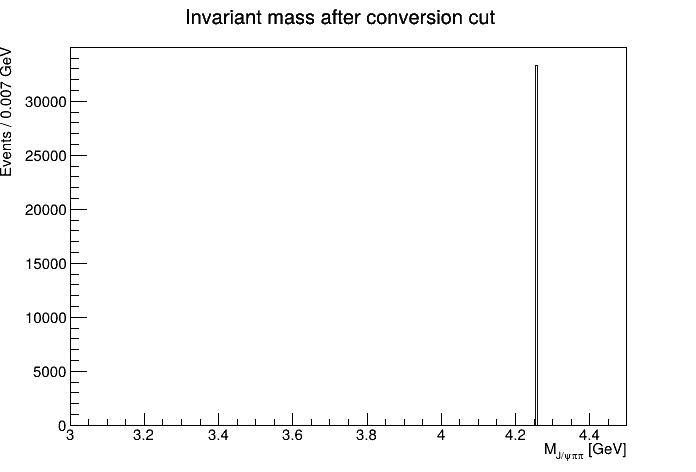
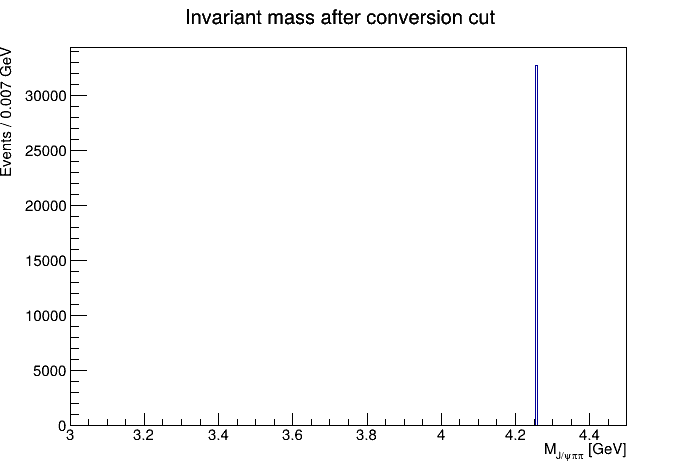
changed bhabha muon condition

diff --git a/part2_KinFit/ZcAnalysis.C b/part2_KinFit/ZcAnalysis.C
@@ -281,11 +281,11 @@ if (muonEvent)
     h1_p_mu->Fill(p_lm);
 }
 // ---------------- Bhabha background rejection ----------------
-if (electronEvent)
-{
+
     if (p_lp > 2.0 || p_lm > 2.0)
         continue;
-}
+
+
 // invariant mass after bhabha cut
 h1_mJpsi_pipi_afterBhabha->Fill(total_temp.M());
 // problem 3.3
@@ -743,9 +743,5 @@ h1_mJpsi_pipi_afterConversion->Draw();
 
 canvas->SaveAs(savePath + "m_Jpsi_pipi_afterConversionCut.png");
 }
-      
-
-        
-        
-    }
+      }
 
